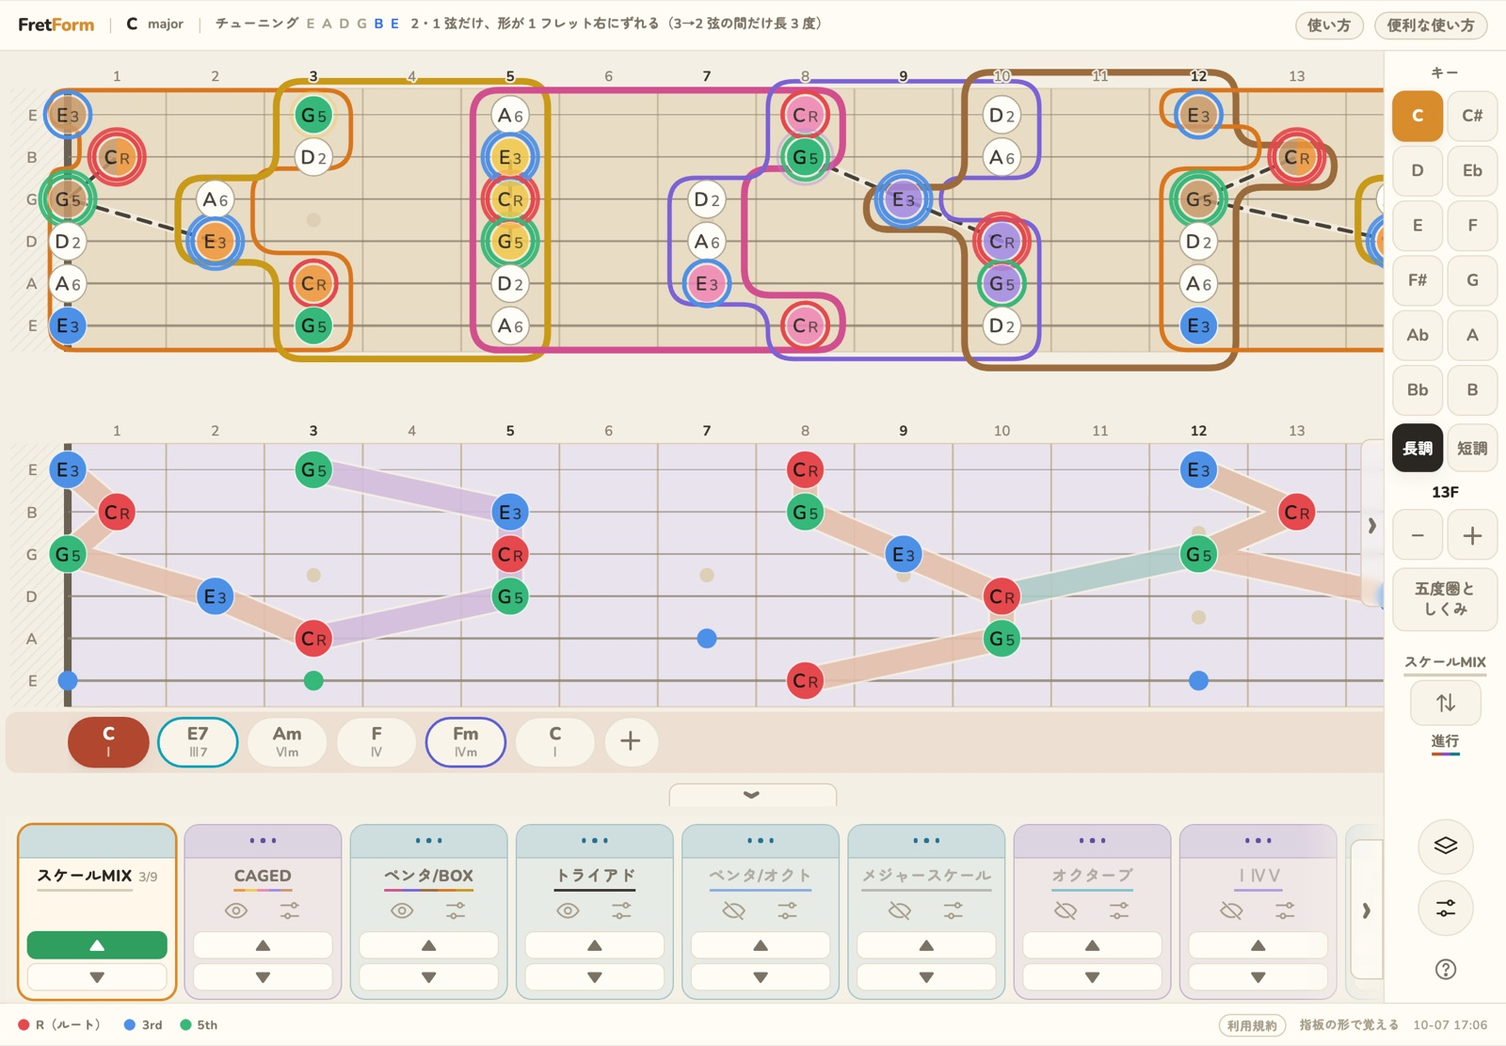
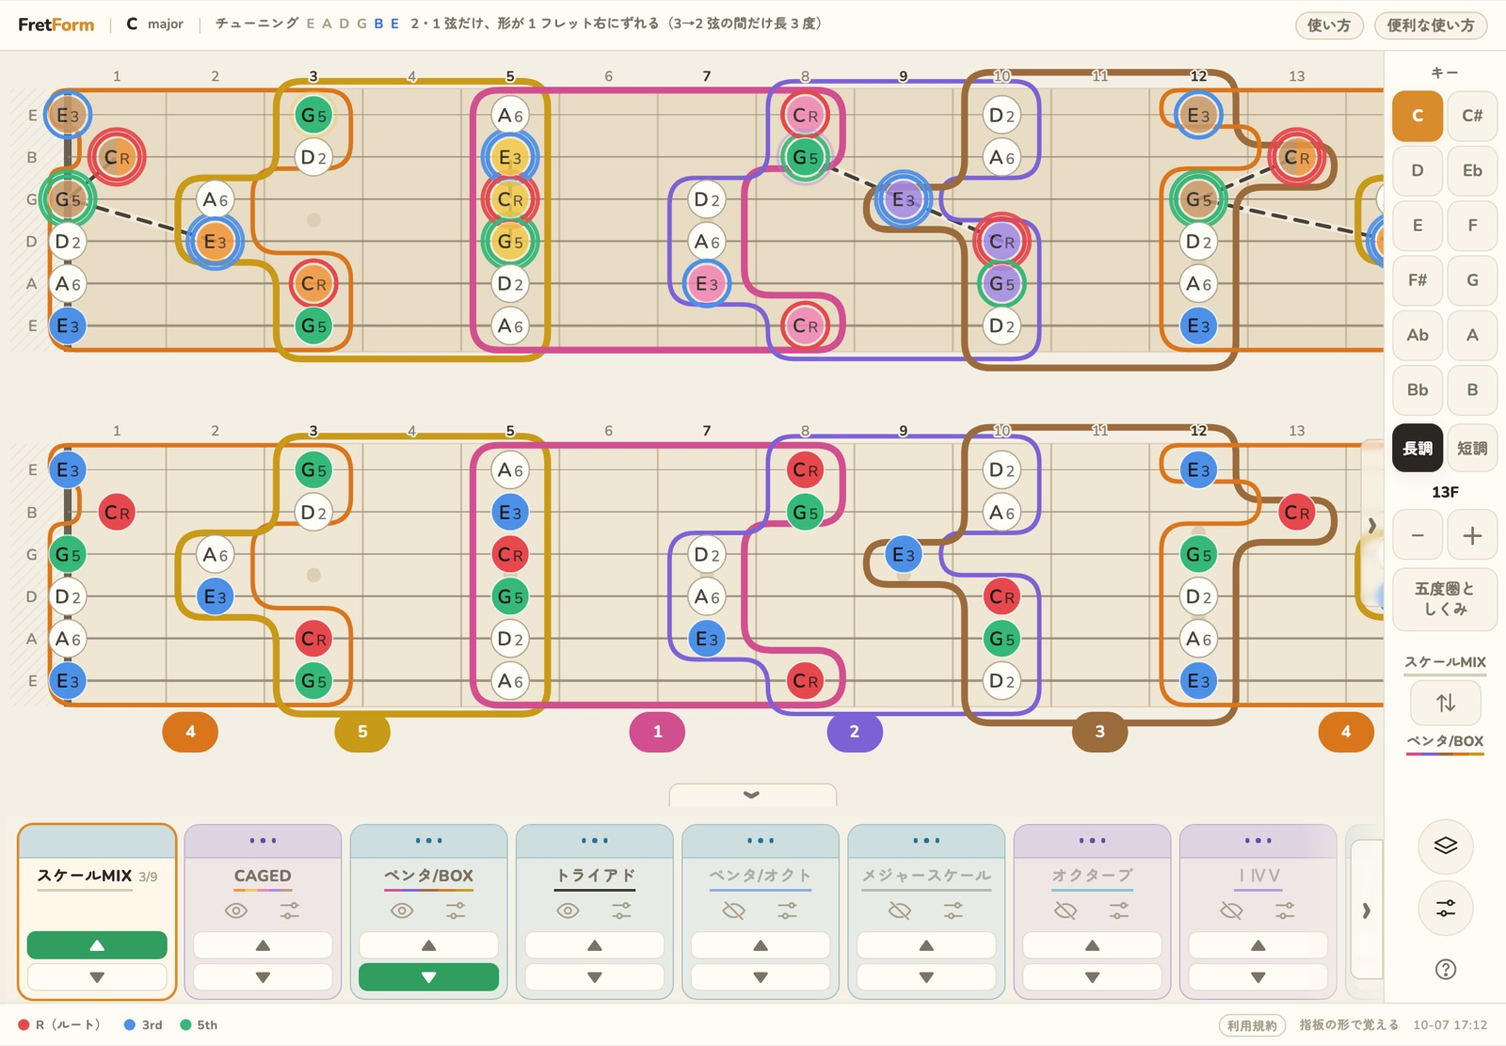
FretForm: 便利な使い方を、簡単なところから積み上げる順に組み直す
Claude-Session: https://claude.ai/code/session_01YDTMXuPLHwuoUqVSY4wV1K

Changed region(s): [[0.0312, 0.3975, 0.9375, 0.7338], [0.2188, 0.9173, 0.3438, 0.9478], [0.9375, 0.7032, 1.0, 0.7338]]

diff --git a/public/edu/FretForm/a190ab17fe/blog/index.html b/public/edu/FretForm/a190ab17fe/blog/index.html
@@ -61,111 +61,108 @@ footer{max-width:860px;margin:0 auto;padding:0 18px 60px;color:var(--faint);font
 </header>
 <main>
 <h1>便利な使い方</h1>
-<p class="lead">FretForm は、<b>指板は動かさず、キーやコードに合わせて「形」が動く</b>ところを見るための画面です。いちばん役に立つのは、<b>上の段にスケール、下の段にコード進行</b>を並べて、コードを 1 つずつ押していく使い方。最初に開いたときも、この並びになっています。</p>
+<p class="lead">FretForm は、<b>指板は動かさず、キーやコードに合わせて「形」が動く</b>ところを見るための画面です。1 つの覚え方を見るところから始めて、2 段で見比べる → 重ねる → コードを見る → 進行に合わせて見る、と 1 歩ずつ進めます。</p>
 
 <ul class="toc">
-  <li><a href="#s1">1. スケールと進行を並べる</a></li>
-  <li><a href="#s2">2. キーの外のコード</a></li>
-  <li><a href="#s3">3. 進行を作り替える</a></li>
-  <li><a href="#s4">4. CAGED とペンタの色</a></li>
-  <li><a href="#s5">5. スケールMIX</a></li>
-  <li><a href="#s6">6. コードMIX</a></li>
-  <li><a href="#s7">7. カードと右のメニュー</a></li>
-  <li><a href="#s8">8. 五度圏としくみ</a></li>
-  <li><a href="#s9">9. 色の約束と保存</a></li>
+  <li><a href="#s1">1. 1 つの覚え方を見る</a></li>
+  <li><a href="#s2">2. 2 段で見比べる</a></li>
+  <li><a href="#s3">3. 重ねる（スケールMIX）</a></li>
+  <li><a href="#s4">4. コードを見る</a></li>
+  <li><a href="#s5">5. スケールと進行を並べる</a></li>
+  <li><a href="#s6">6. キーの外のコード</a></li>
+  <li><a href="#s7">7. 進行を作り替える</a></li>
+  <li><a href="#s8">8. 画面のまわり</a></li>
 </ul>
 
 <article id="s1">
-  <h2><i>1</i>上の段にスケール、下の段にコード進行を並べる</h2>
-  <p>上の段はペンタ（Box 1〜5）、下の段はコード進行（C – E7 – Am – F – Fm – C）。ネックの下のコードを押すと、下の段にそのコードの<b>押さえ方</b>（音を順につないだ帯）と、ほかの場所の同じ音（小さい丸）が出ます。</p>
-  <p>2 つの段はフレットの位置がそろっているので、<b>いま押さえているコードのすぐ上で、どのスケールの音が弾けるか</b>がそのまま見えます。丸の色は全段で同じ約束です。<span class="sw" style="background:#e5484d"></span>R（ルート）・<span class="sw" style="background:#4d90e8"></span>3rd・<span class="sw" style="background:#35b87a"></span>5th。</p>
-  <figure><img src="img/01-default.jpg" alt="上段にペンタ、下段にコード進行を並べた画面" loading="lazy"><figcaption>最初に開いたときの画面。コードのボタンの下の小さい文字（Ⅰ・Ⅲ7・Ⅵm…）は、キーの中での度数（スケール・ディグリー）。</figcaption></figure>
+  <h2><i>1</i>まず 1 つの覚え方を見る — ペンタの Box 1</h2>
+  <p>指板の丸は、そのキーで使う音です。丸の色は役割で決まっていて、<span class="sw" style="background:#e5484d"></span>赤＝R（ルート＝主音）、<span class="sw" style="background:#4d90e8"></span>青＝3rd、<span class="sw" style="background:#35b87a"></span>緑＝5th。色の無い丸はそれ以外の音です。丸の中の文字は音名と度数（C<b>R</b>、E<b>3</b>…）。</p>
+  <p>ペンタの枠は、よく使う 5 つの押さえる場所（Box 1〜5）です。ネックの下の番号を押すと、Box を 1 つずつ出し入れできます。<b>最初は 1 つだけ出して覚える</b>のが早道です。</p>
+  <figure><img src="img/00-box1.jpg" alt="ペンタの Box 1 だけを出した画面" loading="lazy"><figcaption>C キーで Box 1 だけを出したところ。赤い R（C）の位置が手がかり。</figcaption></figure>
   <div class="point">
     <ul>
-      <li>コードを押すたびに、前後で共通の音はそのまま、消える音はゆっくり薄く、新しい音はゆっくり濃くなります。どの音が動いたかが分かります。</li>
-      <li>キー（右のメニュー）を変えると、形がネックの上を滑って移ります。押さえ方の形はそのまま、場所だけが変わります。</li>
+      <li>右のメニューでキーを変えると、指板はそのままで、<b>形が横に滑って</b>新しいキーの場所へ移ります。形はそのまま、場所だけが変わる——これがこの画面のいちばん大事な見え方です。</li>
+      <li>拡大（右のメニューの − ＋）で、見えるフレットの数を変えられます。</li>
     </ul>
   </div>
 </article>
 
 <article id="s2">
-  <h2><i>2</i>キーの外のコードが来たら — セカンダリードミナントと借用和音</h2>
+  <h2><i>2</i>2 段で見比べる — CAGED とペンタ</h2>
+  <p>指板は上下 2 段。下の列のカードの <b>▲</b> で上の段、<b>▼</b> で下の段に出します。2 段はフレットの位置がそろっているので、<b>同じ場所に何があるか</b>を縦に見比べられます。</p>
+  <p>たとえば上に CAGED、下にペンタ/BOX。ペンタの 5 つの Box は、それぞれ CAGED のどれか 1 つのフォームに乗っています（どのキーでも同じ）。そこで同じ場所は同じ色にしています：<span class="sw" style="background:#f0953a"></span>C＝Box 4、<span class="sw" style="background:#f2c94c"></span>A＝Box 5、<span class="sw" style="background:#f285b5"></span>G＝Box 1、<span class="sw" style="background:#a28ae8"></span>E＝Box 2、<span class="sw" style="background:#c99a6b"></span>D＝Box 3。</p>
+  <figure><img src="img/05-caged-penta.jpg" alt="上段 CAGED、下段ペンタを並べた画面" loading="lazy"><figcaption>同じ色が縦にそろいます。CAGED の色は、R・3rd・5th の赤・青・緑と取り違えない色にしてあります。</figcaption></figure>
+</article>
+
+<article id="s3">
+  <h2><i>3</i>重ねて 1 枚で見る — スケールMIX</h2>
+  <p>見比べに慣れたら、重ねます。カードの<b>目</b>を開けた覚え方は、<b>スケールMIX</b> に重なります（最初は CAGED・ペンタ/BOX・トライアド）。</p>
+  <ul>
+    <li>カードの並びが重なりの順です（左ほど手前）。⋮ を掴んで横に動かすと入れ替わります。</li>
+    <li>同じ位置に 2 つ以上の音が来たときは、手前の段が丸を塗り、奥の段は外側の輪になります。輪の色で「この音はペンタの R でもある」が分かります。</li>
+  </ul>
+  <figure><img src="img/06-scalemix.jpg" alt="上段スケールMIX、下段ペンタの画面" loading="lazy"><figcaption>上段にスケールMIX、下段にペンタ/BOX。重ねた地図と、その中の 1 つを並べて見られます。</figcaption></figure>
+</article>
+
+<article id="s4">
+  <h2><i>4</i>コードを見る — ダイアトニックとコードMIX</h2>
+  <p><b>ダイア</b>（ダイアトニックコード）のカードを出すと、ネックの下にそのキーの 7 つのコード（C・Dm・Em…）が並びます。ボタンの下の小さい文字（Ⅰ・Ⅱm…）は、キーの中での度数（スケール・ディグリー）。押したコードの<b>押さえ方</b>が、音を順につないだ帯で出ます。帯の色はルートを置く弦（6・5・4 弦）ごとに変わります。</p>
+  <p>ドロップ2・4 度積み・パワー・シェルも同じ作りで、これらは<b>コードMIX</b>に重なります。コードを選ぶボタンは全部の段で同期するので、重ねると必ず同じコードどうし。線の種類で見分けます：太い帯＝ダイア、二重線＝ドロップ2、細い線＝シェル、細い破線＝パワー、点線＝4 度積み。</p>
+  <figure><img src="img/07-chordmix.jpg" alt="コードMIX でダイアと 4 度積みを重ねた画面" loading="lazy"><figcaption>F（Ⅳ）を選んだところ。上段がコードMIX（ダイア＋4 度積み）、下段がダイアだけ。</figcaption></figure>
+</article>
+
+<article id="s5">
+  <h2><i>5</i>スケールと進行を並べる</h2>
+  <p>ここまでの組み合わせです。<b>上の段にペンタ、下の段にコード進行</b>（最初に開いたときの並び）。進行は C – E7 – Am – F – Fm – C。ネックの下のコードを押すと、下の段にそのコードの押さえ方と、ほかの場所の同じ音（小さい丸）が出ます。</p>
+  <p>2 段はフレットがそろっているので、<b>いま押さえているコードのすぐ上で、どのスケールの音が弾けるか</b>がそのまま見えます。コードを押すたびに、前後で共通の音はそのまま、消える音はゆっくり薄く、新しい音はゆっくり濃くなります。</p>
+  <figure><img src="img/01-default.jpg" alt="上段にペンタ、下段にコード進行を並べた画面" loading="lazy"><figcaption>弾きながらコードを 1 つずつ押していく使い方。</figcaption></figure>
+</article>
+
+<article id="s6">
+  <h2><i>6</i>キーの外のコード — セカンダリードミナントと借用和音</h2>
   <p>進行にキーの外のコードがあると、ボタンの縁に色が付きます。<span class="sw" style="background:#0aa2b9"></span><b>青緑＝セカンダリードミナント</b>、<span class="sw" style="background:#5b5fd6"></span><b>藍＝借用和音</b>、<span class="sw" style="background:#7d8fa3"></span>灰青＝どちらでもないキー外のコード。押すと、上の段のスケールもそのコードに合わせて変わります。</p>
-  <p><b>E7（Ⅲ7）を押すと</b>：E7 は次の Am へ解決するドミナント（V/vi）。鳴らしている間は A を主音に一時転調している、とみて、ヘッダーに「一時転調中！ A harmonic minor」、ネック全体が青緑になります。上の段は A を R として読み替え、<b>G を薄く、G# を青緑の丸で</b>足します（A ハーモニックマイナー）。</p>
+  <p><b>E7（Ⅲ7）</b>：次の Am へ解決するドミナント（V/vi）。鳴らしている間は A を主音に一時転調している、とみて、ヘッダーに「一時転調中！ A harmonic minor」、ネック全体が青緑になります。上の段は A を R として読み替え、<b>G を薄く、G# を青緑の丸で</b>足します。</p>
   <figure><img src="img/02-secdom.jpg" alt="E7 を選んで一時転調している画面" loading="lazy"><figcaption>ネックの下の説明は 2 行。上がコードの役割、下がスケール側で変わること。</figcaption></figure>
-  <p><b>Fm（Ⅳm）を押すと</b>：Fm は同主短調（C マイナー）から借りてきたコード。キーは C のまま、<b>A を薄く、特徴音 A♭ を藍の丸で</b>足します。「C major の A を特徴音 Ab に替える（＝ C harmonic major）」。</p>
+  <p><b>Fm（Ⅳm）</b>：同主短調（C マイナー）から借りてきたコード。キーは C のまま、<b>A を薄く、特徴音 A♭ を藍の丸で</b>足します（C major の A を A♭ に替える＝ C harmonic major）。</p>
   <figure><img src="img/03-borrowed.jpg" alt="Fm を選んで借用和音を示している画面" loading="lazy"><figcaption>Ⅳ → Ⅳm → Ⅰ は、ポップスでよく出る借用和音の使い方。</figcaption></figure>
   <div class="point">
     <p><b>どうやって見分けているか</b></p>
     <ul>
-      <li>ドミナントの形（長 3 度＋短 7 度など）で、<b>次のコードが 5 度下に解決</b>していればセカンダリードミナント。</li>
+      <li>ドミナントの形（長 3 度＋短 7 度など）で、次のコードが 5 度下に解決していればセカンダリードミナント。</li>
       <li>同じ主音の別の旋法（長調なら同主短調など）の音だけでできていれば借用和音。</li>
-      <li>解決しないドミナントもセカンダリードミナントとして扱います（偽終止など）。裏コードのように型どおりでないものは「キー外」とだけ示します。</li>
+      <li>解決しないドミナントもセカンダリードミナントとして扱います。裏コードのように型どおりでないものは「キー外」とだけ示します。</li>
     </ul>
   </div>
 </article>
 
-<article id="s3">
-  <h2><i>3</i>進行を自分の曲に作り替える</h2>
+<article id="s7">
+  <h2><i>7</i>進行を自分の曲に作り替える</h2>
   <p>ネックの下の<b>＋</b>を押すと、進行の編集が開きます。</p>
   <ol class="steps">
     <li><b>いまの進行</b>：押すとそのコードを出します。<b>×</b> で消せます。</li>
     <li><b>コードを足す</b>：ルート（12 個、度数つき）を選んでから、種類（メジャー・マイナー・7th・sus・9th・13th など 20 種類）を押すと、進行の最後に足されます。</li>
   </ol>
   <figure><img src="img/04-prog-sheet.jpg" alt="進行の編集画面" loading="lazy"><figcaption>点線より上が「消す」、下が「足す」。続けて何個でも足せます。閉じるのは「完了」。</figcaption></figure>
-  <p>押さえ方は、ルートを 6・5・4 弦に置いたバレーの形と、ナット近くの開放コード（C なら x32010、C7 なら x32310 など）。帯の色はルートの弦ごとに変わります。</p>
-</article>
-
-<article id="s4">
-  <h2><i>4</i>CAGED とペンタは同じ色で対応している</h2>
-  <p>ペンタの 5 つの Box は、それぞれ CAGED のどれか 1 つのフォームの上に乗っています（どのキーでも同じ対応）。そこで<b>同じ場所の Box とフォームを同じ色</b>にしています。</p>
-  <p><span class="sw" style="background:#f0953a"></span>C＝Box 4、<span class="sw" style="background:#f2c94c"></span>A＝Box 5、<span class="sw" style="background:#f285b5"></span>G＝Box 1、<span class="sw" style="background:#a28ae8"></span>E＝Box 2、<span class="sw" style="background:#c99a6b"></span>D＝Box 3。CAGED の色は、R・3rd・5th の赤・青・緑と取り違えない色にしてあります。</p>
-  <figure><img src="img/05-caged-penta.jpg" alt="上段 CAGED、下段ペンタを並べた画面" loading="lazy"><figcaption>上段に CAGED、下段にペンタ/BOX。同じ色が縦にそろいます。ネックの下の文字がフォーム名、番号のボタンで Box を出し入れ。</figcaption></figure>
-</article>
-
-<article id="s5">
-  <h2><i>5</i>スケールMIX — 地図を 1 枚に重ねる</h2>
-  <p>目を開けてある覚え方を全部重ねたのが<b>スケールMIX</b>。最初は CAGED・ペンタ/BOX・トライアドの 3 つ。カードの並びがそのまま重なりの順（左ほど手前）で、⋮ を掴んで横に動かすと入れ替わります。</p>
-  <p>同じ位置に 2 つ以上の音が来たときは、<b>手前の段が丸を塗り、奥の段は外側の輪</b>になります。輪の色で「この音はペンタの R でもある」が分かります。</p>
-  <figure><img src="img/06-scalemix.jpg" alt="上段スケールMIX、下段コード進行の画面" loading="lazy"><figcaption>上段にスケールMIX、下段にコード進行。地図の上でコードの音を追えます。</figcaption></figure>
-</article>
-
-<article id="s6">
-  <h2><i>6</i>コードMIX — 同じコードの押さえ方を重ねる</h2>
-  <p>ダイア系の覚え方（ダイアトニック・ドロップ2・4 度積み・パワー・シェル）は<b>コードMIX</b>に重なります。コードを選ぶボタンは全部の段で同期するので、重ねると必ず同じコードどうし。<b>パワーコードはバレーの芯、シェルは 7th の骨格</b>…と、形の入れ子が見えます。</p>
-  <p>押さえ方は線の種類で見分けます：太い帯＝ダイア、二重線＝ドロップ2、細い線＝シェル、細い破線＝パワー、点線＝4 度積み（ネックの下に見本）。</p>
-  <figure><img src="img/07-chordmix.jpg" alt="コードMIX でダイアと 4 度積みを重ねた画面" loading="lazy"><figcaption>F（Ⅳ）を選んだところ。上段がコードMIX（ダイア＋4 度積み）、下段がダイアだけ。</figcaption></figure>
-</article>
-
-<article id="s7">
-  <h2><i>7</i>カードと右のメニュー</h2>
-  <ul>
-    <li><b>▲▼</b>：そのカードを上段・下段に出します。</li>
-    <li><b>目</b>：スケールMIX／コードMIX に重ねるかどうか（進行は重ねないので目がありません）。</li>
-    <li><b>⋮</b>：掴んで横に動かすと並べ替え（＝重なりの順）。並べ替えはまとまりの中だけ。</li>
-    <li><b>カードの色</b>は種類（<span class="sw" style="background:#2f8fb8"></span>音階・<span class="sw" style="background:#c8642e"></span>コード・<span class="sw" style="background:#7a62c9"></span>目印・<span class="sw" style="background:#c23f7c"></span>進行）、<b>名前の下の線</b>はネック上で使う色の見本です。</li>
-    <li>右のメニューには、キー・長調／短調・拡大・五度圏としくみ、その下に<b>いまの上段と下段の名前</b>と、入れ替えボタン（⇅）。</li>
-    <li>下の列は 2 段階でしまえます。1 回目で ▲▼ が隠れ、2 回目で全部隠れます（出すときは 1 回）。</li>
-  </ul>
-  <figure><img src="img/09-cards.jpg" alt="カードの列と右のメニュー" loading="lazy"><figcaption>横に続きがあるときは、端がぼけて ‹ › のボタンが出ます。</figcaption></figure>
+  <p>押さえ方は、ルートを 6・5・4 弦に置いたバレーの形と、ナット近くの開放コード（C なら x32010、C7 なら x32310 など）。</p>
 </article>
 
 <article id="s8">
-  <h2><i>8</i>五度圏としくみ</h2>
-  <p>右のメニューの「五度圏としくみ」で開く窓。五度圏は外から <b>長調のキー／度数／平行短調／度数</b>、真ん中にいまのキー。光っている 6 つが、そのキーのダイアトニック・コードです。輪をタップするとキーが変わります。</p>
-  <p>下の「コードの種類が決まるしくみ」は、音階の半音の場所と、3 度を積んだときの長短の関係から、なぜ Ⅰ は maj7、Ⅴ は 7th、Ⅶ は m7♭5 になるのかを 1 枚で見せる図です。</p>
-  <figure><img src="img/08-circle.jpg" alt="五度圏としくみの窓" loading="lazy"><figcaption>窓は掴んで動かせます。盤を見ながら確かめるための窓です。</figcaption></figure>
-</article>
-
-<article id="s9">
-  <h2><i>9</i>色の約束と、保存</h2>
+  <h2><i>8</i>画面のまわり — カード・右のメニュー・五度圏・保存</h2>
   <ul>
-    <li><span class="sw" style="background:#e5484d"></span>赤・<span class="sw" style="background:#4d90e8"></span>青・<span class="sw" style="background:#35b87a"></span>緑は、R・3rd・5th だけの色です。</li>
-    <li>キーの外の音とコードは寒色：<span class="sw" style="background:#0aa2b9"></span>青緑＝一時転調（セカンダリードミナント）、<span class="sw" style="background:#5b5fd6"></span>藍＝借用和音の特徴音。</li>
-    <li>右下の道具の「表示設定」では、丸の文字（音名／度数／両方）を選べます。<b>いまの設定を保存</b>しておけば、あとで呼び出せます。<b>初期状態に戻す</b>で最初の並びに戻ります。</li>
-    <li>保存先は<b>この端末のブラウザの中だけ</b>です（サーバーには送りません）。</li>
+    <li><b>カードの色</b>は種類（<span class="sw" style="background:#2f8fb8"></span>音階・<span class="sw" style="background:#c8642e"></span>コード・<span class="sw" style="background:#7a62c9"></span>目印・<span class="sw" style="background:#c23f7c"></span>進行）、<b>名前の下の線</b>はネック上で使う色の見本です。</li>
+    <li>右のメニューには、キー・長調／短調・拡大・五度圏としくみ、その下に<b>いまの上段と下段の名前</b>と、入れ替えボタン（⇅）。</li>
+    <li>下の列は 2 段階でしまえます。1 回目で ▲▼ が隠れ、2 回目で全部隠れます（出すときは 1 回）。横に続きがあるときは、端がぼけて ‹ › のボタンが出ます。</li>
   </ul>
-  <p>迷ったら、ヘッダーの「使い方」で画面の案内（ツアー）をいつでも呼び出せます。</p>
+  <figure><img src="img/09-cards.jpg" alt="カードの列と右のメニュー" loading="lazy"><figcaption>カードの列（下）と右のメニュー。</figcaption></figure>
+  <p><b>五度圏としくみ</b>（右のメニュー）：五度圏は外から長調のキー／度数／平行短調／度数、真ん中にいまのキー。光っている 6 つが、そのキーのダイアトニック・コードです。下の「コードの種類が決まるしくみ」は、なぜ Ⅰ は maj7、Ⅴ は 7th、Ⅶ は m7♭5 になるのかを 1 枚で見せる図です。</p>
+  <figure><img src="img/08-circle.jpg" alt="五度圏としくみの窓" loading="lazy"><figcaption>窓は掴んで動かせます。輪をタップするとキーが変わります。</figcaption></figure>
+  <div class="point">
+    <ul>
+      <li>赤・青・緑は R・3rd・5th だけの色。キーの外は寒色（青緑＝一時転調、藍＝借用和音の特徴音）。</li>
+      <li>右下の「表示設定」で丸の文字（音名／度数／両方）を選べます。<b>いまの設定を保存</b>しておけばあとで呼び出せ、<b>初期状態に戻す</b>で最初の並びに戻ります。保存先は<b>この端末のブラウザの中だけ</b>です。</li>
+      <li>迷ったら、ヘッダーの「使い方」で画面の案内（ツアー）をいつでも呼び出せます。</li>
+    </ul>
+  </div>
 </article>
 </main>
 <footer>FretForm — 指板の形で覚える</footer>
